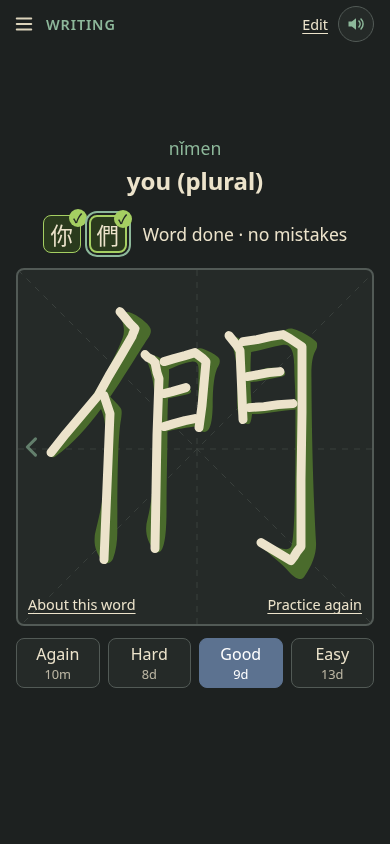
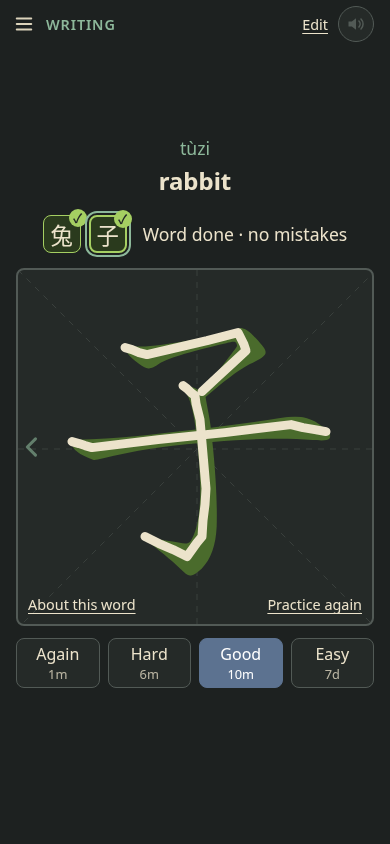
README: the writing pictures show 兔子, the same in both scripts
The atlas gets README=1, which adds 兔子 first to learn and makes its
writing card the one in Review (16-review-writing-grades).

diff --git a/scripts/ux-atlas.js b/scripts/ux-atlas.js
@@ -19,6 +19,9 @@
 // nothing is measured after a resize a real device would not have.
 //
 // SIZES=phone node scripts/ux-atlas.js runs one size only.
+// README=1 also adds 兔子 (the same in both scripts), first to learn and the
+// writing card in Review, for the README's pictures: docs/images/
+// writing-light.png and writing-dark.png are 16-review-writing-grades.
 // To compare a change in the looks before making it: TRY_CSS adds a few
 // lines of style to every screen, and OUT puts the pictures elsewhere, e.g.
 //   SIZES=phone OUT=local/ux-atlas-blue TRY_CSS=':root{--quiet-text:var(--accent)}' node scripts/ux-atlas.js
@@ -34,6 +37,7 @@ import {
   type,
   waitUntil,
   addTestWords,
+  pasteList,
   openLearn,
   openDeckPage,
   writingArea,
@@ -202,6 +206,10 @@ const TEST_WORDS = fs
     return { simplified, traditional, pinyin, definition };
   });
 
+// The word in the README's pictures of writing (README=1).
+const README_WORD = { simplified: '兔子', traditional: '兔子', pinyin: 'tu4zi5', definition: 'rabbit' };
+if (process.env.README) TEST_WORDS.push(README_WORD);
+
 // Walks the app at one size, filling `shots` (one entry per screen).
 async function walk(page, sizeName, size, shots) {
   const log = (text) => console.log(`[${sizeName}] ${text}`);
@@ -286,6 +294,32 @@ async function walk(page, sizeName, size, shots) {
   });
 
   await step('adding the test words', () => addTestWords(page));
+  if (process.env.README) {
+    await step('adding the README word, first to learn', async () => {
+      const w = README_WORD;
+      await openDeckPage(page);
+      await pasteList(page, `${w.simplified}\t${w.traditional}\t${w.pinyin}\t${w.definition}\n`);
+      await tap(page, 'add-list-button');
+      await waitUntil(page, `document.getElementById('word-count').textContent === '${TEST_WORDS.length}'`, 'the README word');
+      // Learn takes words by their `order`: before all the others.
+      await page.evaluate(`new Promise((resolve, reject) => {
+        const opening = indexedDB.open('hanzi-trainer');
+        opening.onsuccess = () => {
+          const tx = opening.result.transaction('words', 'readwrite');
+          const store = tx.objectStore('words');
+          store.getAll().onsuccess = (event) => {
+            const words = event.target.result;
+            const first = Math.min(...words.map((word) => word.order));
+            const word = words.find((word) => word.traditional === '${w.traditional}');
+            store.put({ ...word, order: first - 1 });
+          };
+          tx.oncomplete = resolve;
+          tx.onerror = () => reject(tx.error);
+        };
+      })`);
+      await reloadApp(page);
+    });
+  }
 
   await step('the menu', async () => {
     await tap(page, 'menu-button');
@@ -346,7 +380,7 @@ async function walk(page, sizeName, size, shots) {
     await type(page, 'word-search', '');
   });
 
-  // The lesson, every step of the first word to learn (我們, two characters).
+  // The lesson, every step of the first word to learn (我們, two characters; 兔子 with README=1).
   await step('Learn', async () => {
     await openLearn(page);
     for (let number = 1; number <= 8; number++) {
@@ -424,7 +458,9 @@ async function walk(page, sizeName, size, shots) {
           const store = tx.objectStore('cards');
           store.getAll().onsuccess = (event) => {
             for (const card of event.target.result) {
-              const due = card.type === '${type}' ? 0 : Date.now() + 365 * 86400000;
+              // With README=1, the writing card shown is the README word's.
+              const shown = card.type === '${type}' && (${type === 'writing' && Boolean(process.env.README)} ? card.id.startsWith('${README_WORD.traditional}|') : true);
+              const due = shown ? 0 : Date.now() + 365 * 86400000;
               store.put({ ...card, due, lastReviewedAt: 1 });
             }
           };

diff --git a/docs/ux-review.md b/docs/ux-review.md
@@ -4,7 +4,7 @@ The owner asked on 2026-10-16 for a picture of every screen at several sizes in 
 
 ## The atlas
 
-- **Run it:** `node scripts/ux-atlas.js` (about three minutes), then open `local/ux-atlas/index.html`. `SIZES=phone` runs one size. To try a style before making it, `TRY_CSS` adds lines of style to every screen from the page's first moment, and `OUT` puts the pictures in another folder (example at the top of the script). It needs what the browser tests need and uses `tests/browser/harness.js`; no dependency.
+- **Run it:** `node scripts/ux-atlas.js` (about three minutes), then open `local/ux-atlas/index.html`. `SIZES=phone` runs one size; `README=1` adds 兔子 for the README's pictures (`docs/images/`). To try a style before making it, `TRY_CSS` adds lines of style to every screen from the page's first moment, and `OUT` puts the pictures in another folder (example at the top of the script). It needs what the browser tests need and uses `tests/browser/harness.js`; no dependency.
 - **What it does:** starts the app in a fresh profile in headless browsers, one per size (phone 390×844, small phone 375×667, tablet 820×1180, desktop 1440×900, and held sideways: `tablet-wide`, `phone-wide`), adds the test words, and walks every screen: Review, Free practice, the menu, Decks, a deck's page, "+ Add to deck" on each tab, Words, a word's page and its Cards, the word's panel, the dictionary search, every step of a lesson for 我們, the next word with the pill saying 我們 is learned, the summary at the end of today's words, one Review card of each kind before and after answering, each Settings group, and the introduction.
 - **Each picture is the whole page**, the bottom of the screen marked by a dashed red line. Under each: controls, those below the fold, those under 44px, anything sticking out sideways, text cut off, text under 12px, the writing area's size; all in `local/ux-atlas/report.json`. Round buttons' invisible tap layer can't be seen by it, so they are listed as small.
 - **It is not a test**: nothing fails. Run it before and after a change to the looks and compare. A step that can't be reached is listed at the top with a picture (`failed-*.png`).

diff --git a/docs/history.md b/docs/history.md
@@ -6,7 +6,7 @@ The latest handover, the roadmap, and what the testing sessions taught. Trimmed 
 
 **Handover from the third session of 2026-11-09 (the README rewritten; pushed to `main`).**
 
-- **Built** (the owner, 2026-11-09): `README.md` written afresh for the app as it is now, short, with "Running your own sync server" kept as it was. The owner asked for no "local-first", no "alternative to Skritter" (it is its own thing), no free practice (not core). Pictures of the introduction and writing in both looks in `docs/images/`, taken with `SIZES=phone node scripts/ux-atlas.js` (test words only); take them again there when the looks change.
+- **Built** (the owner, 2026-11-09): `README.md` written afresh for the app as it is now, short, with "Running your own sync server" kept as it was. The owner asked for no "local-first", no "alternative to Skritter" (it is its own thing), no free practice (not core). Pictures of the introduction and writing in both looks in `docs/images/`, of 兔子 (the same in both scripts, the owner, 2026-11-09), taken with `SIZES=phone README=1 node scripts/ux-atlas.js` (`16-review-writing-grades`, `19-welcome-1` for the introduction); take them again there when the looks change.
 - **Tests:** none needed (no app change).
 
 **Handover from the second session of 2026-11-09 (a sync code shown again is hidden on leaving Settings; released to `stable`).**

diff --git a/README.md b/README.md
@@ -10,8 +10,8 @@ On a phone or tablet, choose "Install app" or "Add to Home Screen" from the brow
 
 <p>
   <img src="docs/images/introduction.png" width="260" alt="The introduction's first screen: a welcome, and a choice of light, dark or the device's look">
-  <img src="docs/images/writing-light.png" width="260" alt="A written character, 們, in the light look, with the grade buttons below">
-  <img src="docs/images/writing-dark.png" width="260" alt="The same character in the dark look">
+  <img src="docs/images/writing-light.png" width="260" alt="A written word, 兔子 (rabbit), in the light look, with the grade buttons below">
+  <img src="docs/images/writing-dark.png" width="260" alt="The same word in the dark look">
 </p>
 
 ## What it does
